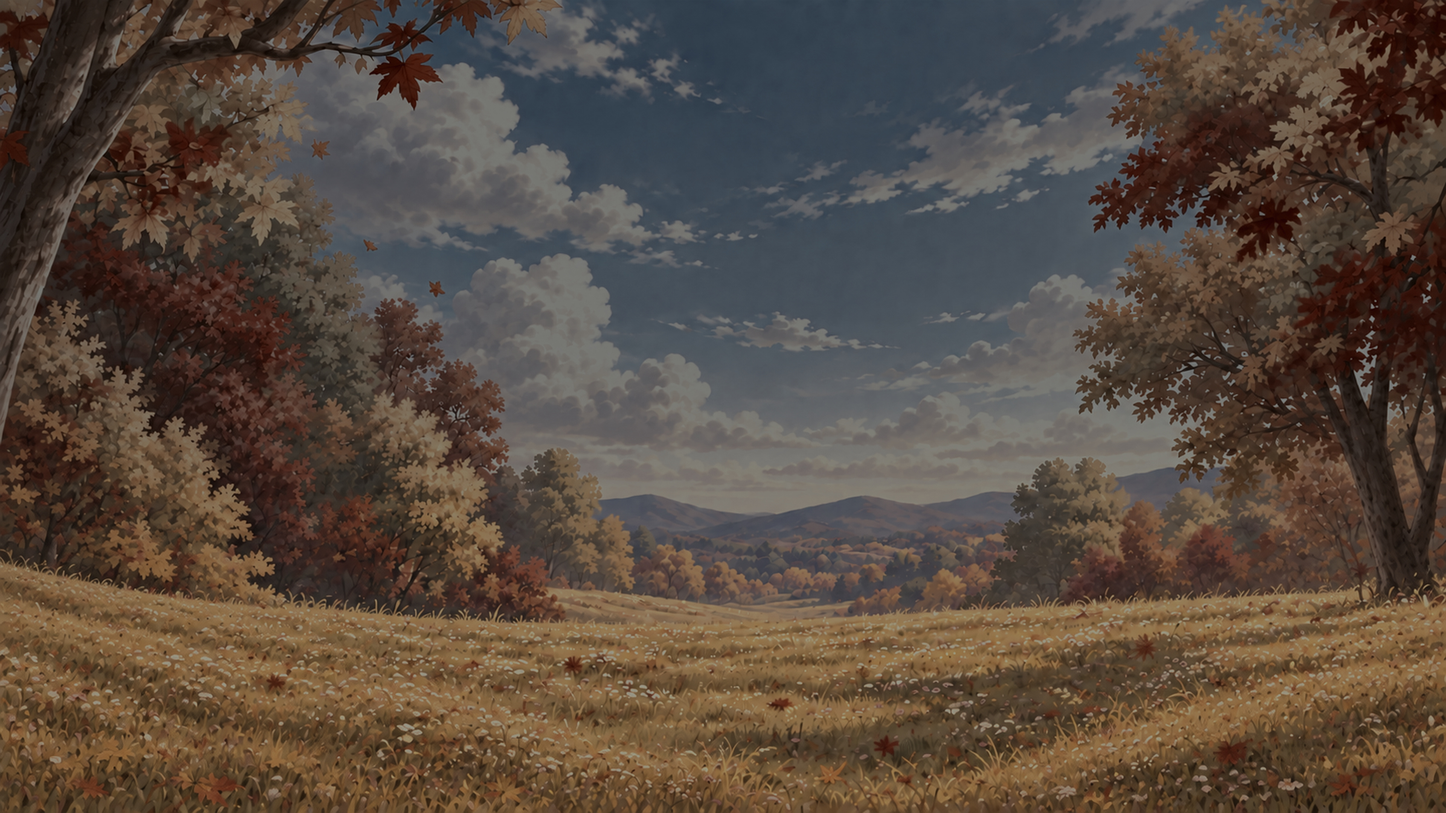
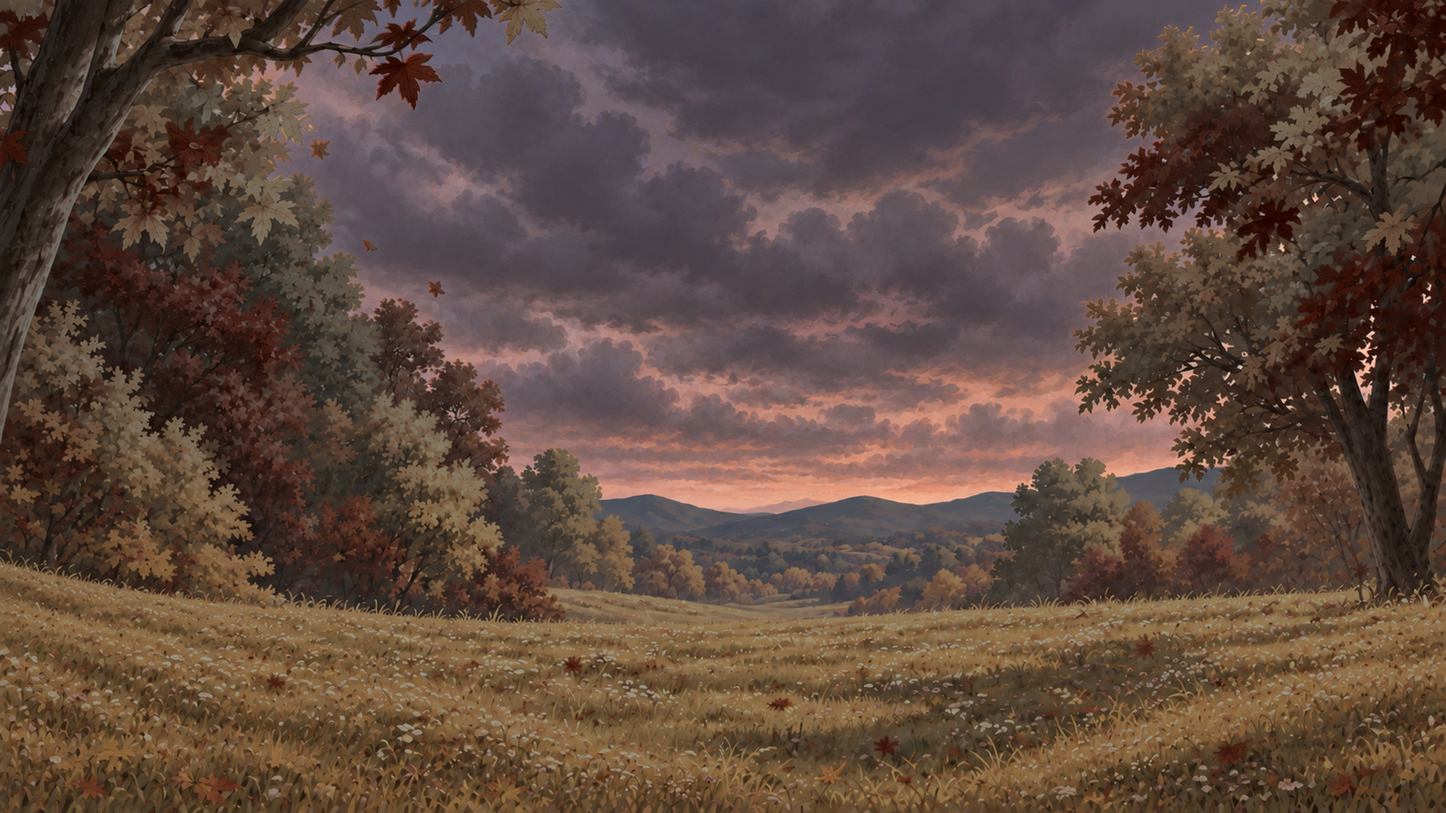
Add dedicated autumn rain cloud scenes

Changed region(s): [[0.1562, 0.0, 0.9062, 0.6514], [0.9375, 0.4032, 0.9688, 0.5273]]

diff --git a/index.html b/index.html
@@ -883,7 +883,7 @@ function createSceneMotion(restart, cleanup, ambient) {
 <script>
 (function () {
   var TZ = "Asia/Seoul", WKEY = "naeru-weather";
-  var ASSET_V = "e307beb9b84c";
+  var ASSET_V = "23f609952271";
   var root = document.documentElement;
   root.dataset.av = ASSET_V;
   var params = new URLSearchParams(location.search);

diff --git a/tools/autumn/build.py b/tools/autumn/build.py
@@ -1,5 +1,5 @@
 #!/usr/bin/env python3
-"""승인된 가을 낮 원화에서 8개 배경·전경과 풍경 누끼를 만든다."""
+"""승인된 가을 원화에서 8개 배경·전경과 풍경 누끼를 만든다."""
 from pathlib import Path
 
 import cv2
@@ -16,6 +16,7 @@ SIZE = (3840, 2160)
 VARIANTS = ["dawn", "day", "dusk", "night",
             "dawn-rain", "day-rain", "dusk-rain", "night-rain"]
 CLEAR_VARIANTS = VARIANTS[:4]
+RAIN_VARIANTS = VARIANTS[4:]
 
 
 def clean_alpha(image, minimum_area):
@@ -95,6 +96,16 @@ def apply_lighting(image, variant, models):
     return Image.fromarray(rgba)
 
 
+def compose_rain_background(clean, landscape_mask, variant, models):
+    """새 비구름 아래에 형태가 고정된 나무·산·들판을 다시 올린다."""
+    time = variant.removesuffix("-rain")
+    rain_sky = Image.open(SOURCE / f"rain-sky-{time}.png").convert("RGB")
+    rain_sky = rain_sky.resize(SIZE, Image.Resampling.LANCZOS)
+    landscape = apply_lighting(clean, variant, models).convert("RGB")
+    landscape = landscape.resize(SIZE, Image.Resampling.LANCZOS)
+    return Image.composite(landscape, rain_sky, landscape_mask)
+
+
 def save_landscape(background, mask, variant):
     """기존 구름 영상 위를 덮을 새 나무·산·들판 레이어를 저장한다."""
     landscape = background.convert("RGBA")
@@ -128,8 +139,12 @@ def build():
     models = lighting_models()
     expected_alpha = None
     for variant in VARIANTS:
-        background = apply_lighting(clean, variant, models).convert("RGB")
-        background = background.resize(SIZE, Image.Resampling.LANCZOS)
+        if variant in RAIN_VARIANTS:
+            background = compose_rain_background(
+                clean, landscape_mask, variant, models)
+        else:
+            background = apply_lighting(clean, variant, models).convert("RGB")
+            background = background.resize(SIZE, Image.Resampling.LANCZOS)
         output = IMG / f"bg-{variant}-autumn.jpg"
         background.save(output, quality=95, subsampling=0)
         print(f"{variant}: {output.stat().st_size / 1024:.0f} KiB")
